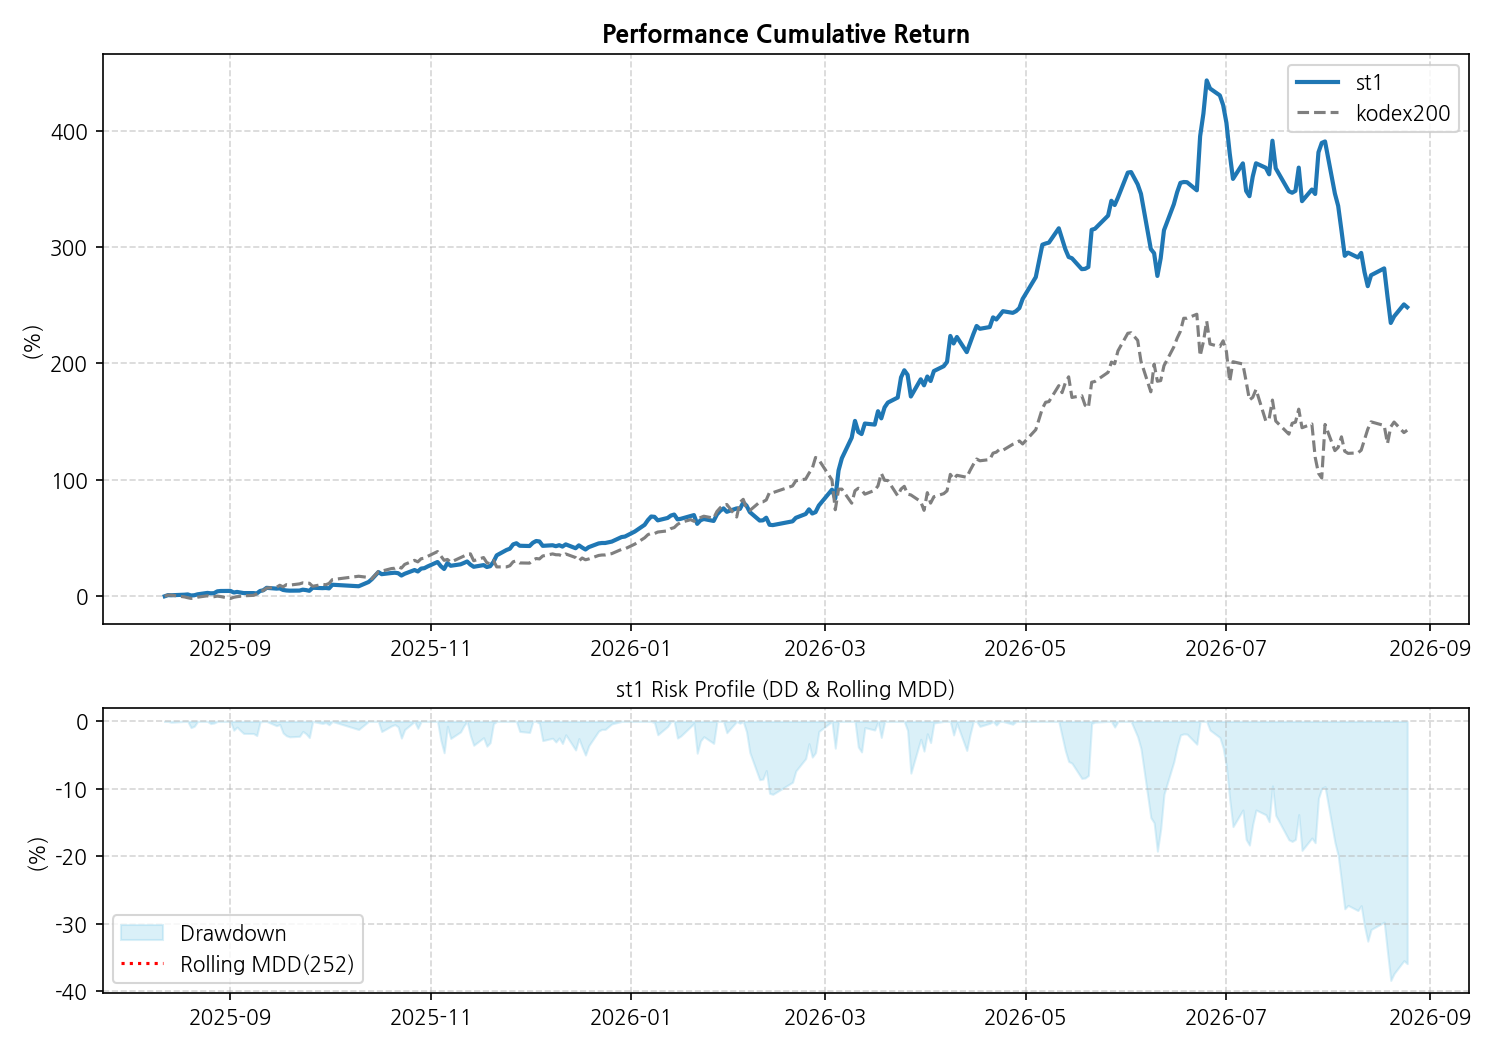
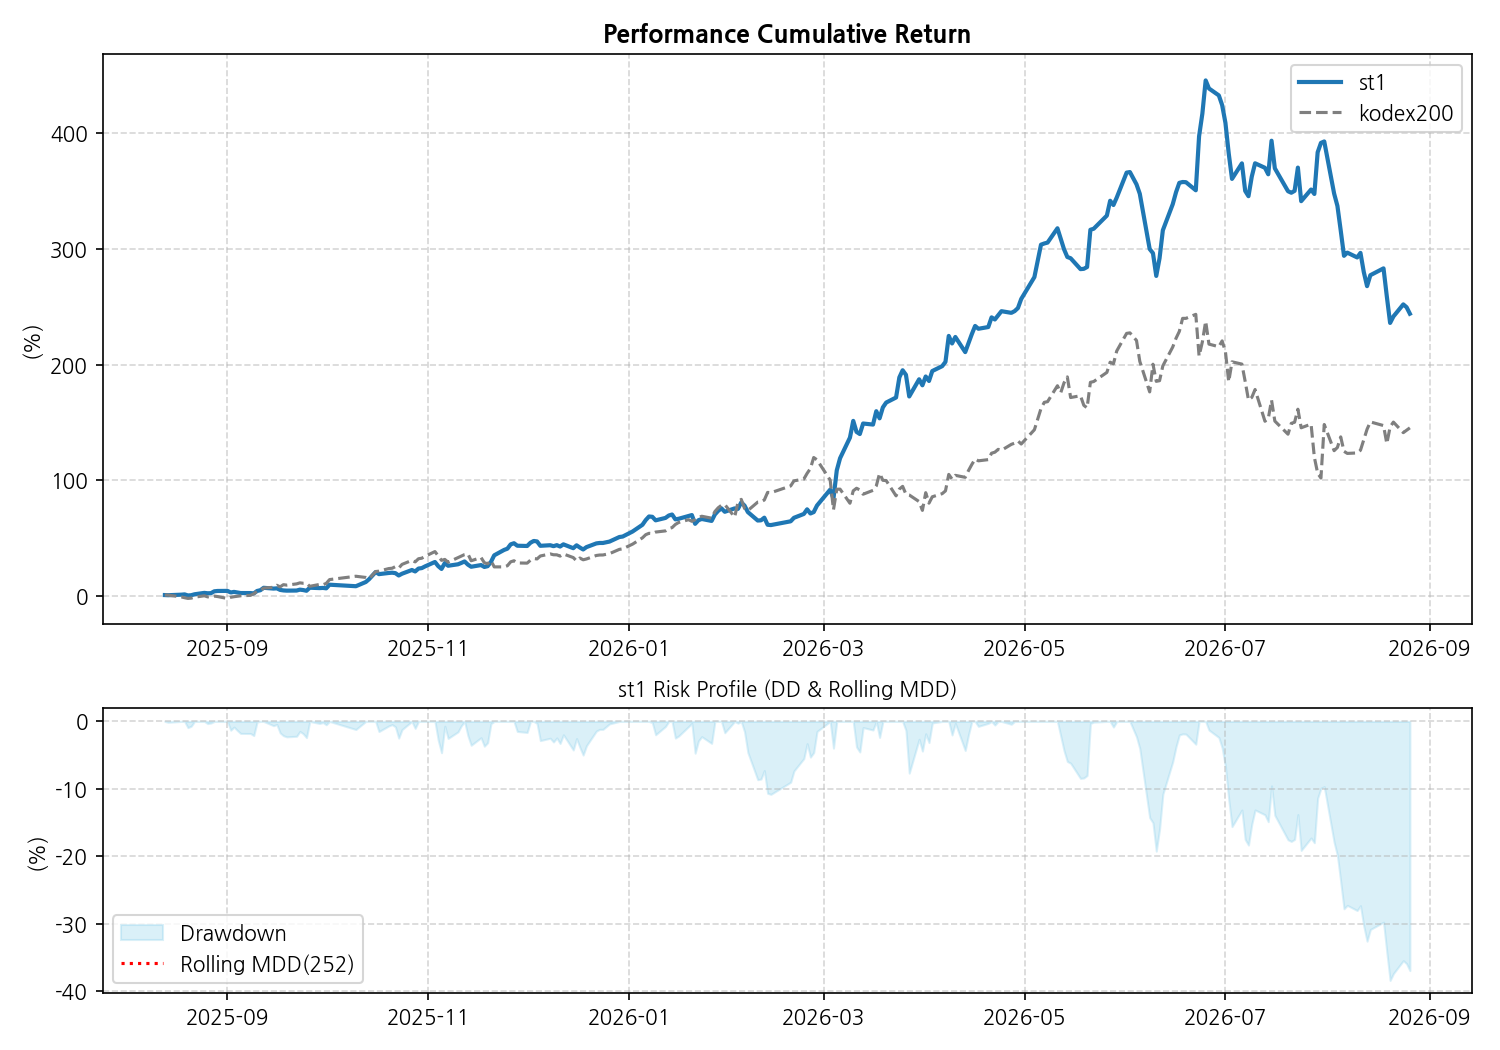
Auto commit

diff --git a/_pages/bt/bt_kodex.md b/_pages/bt/bt_kodex.md
@@ -2,7 +2,7 @@
 layout: post
 title: "BT, 오늘의 시그널(ETF)"
 author: Best Investor
-date: 2026-08-25
+date: 2026-08-26
 category: BT
 mermaid: true
 parent: 포트폴리오
@@ -14,14 +14,14 @@ parent: 포트폴리오
 
 | 지표 | 전략 1 (S1) | 전략 2 (S2) | 차이 (Diff) |
 | :--- | :---: | :---: | :---: |
-| **오늘 수익률** | -0.7% | 0.86% | -1.55% |
-| **30일 수익률** | -26.23% | -12.64% | -13.59% |
-| **1년 수익률** | 248.24% | 142.49% | 105.75% |
-| **전체 수익률** | 991.37% | 255.0% | 736.37% |
+| **오늘 수익률** | -1.6% | 0.86% | -2.47% |
+| **30일 수익률** | -26.81% | -2.26% | -24.55% |
+| **1년 수익률** | 243.86% | 145.36% | 98.5% |
+| **전체 수익률** | 989.94% | 254.18% | 735.76% |
 | **MDD (1Y)** | -38.4% | -41.15% | 2.75%p |
 | **MDD (ALL)** | **-38.4%** | **-41.15%** | 2.75%p |
-| **샤프 (1Y)** | 2.86 | 1.8 | 1.06 |
-| **샤프 (ALL)** | **2.32** | **1.12** | 1.2 |
+| **샤프 (1Y)** | 2.83 | 1.83 | 1.0 |
+| **샤프 (ALL)** | **2.32** | **1.11** | 1.21 |
 
 ## 📉 누적 성과 및 리스크 차트
 1. **최근 30일:** ![30일](/img_st/st_kodex_cum_risk_30d.png)

diff --git a/_posts/signal/2026-04-01-signal.md b/_posts/signal/2026-04-01-signal.md
@@ -7,6 +7,18 @@ category: Jekyll
 ---
 ## 시그널  
 
+### 📊 2026-08-27 Morning Trading Signal
+
+- 📅 날짜: 2026-08-27  
+- ⏰ 시간: 08:45  
+- 🧾 종목: **KODEX 인버스**  
+- 📉 포지션: **하방**
+
+##### 🧭 Execution Plan
+- 🚀 진입: 오늘 시가_진입(매수)
+- 🎯 청산: 오늘 종가_청산
+
+
 ### 📊 2026-08-26 Afternoon Trading Signal
 
 - 📅 날짜: 2026-08-26  
